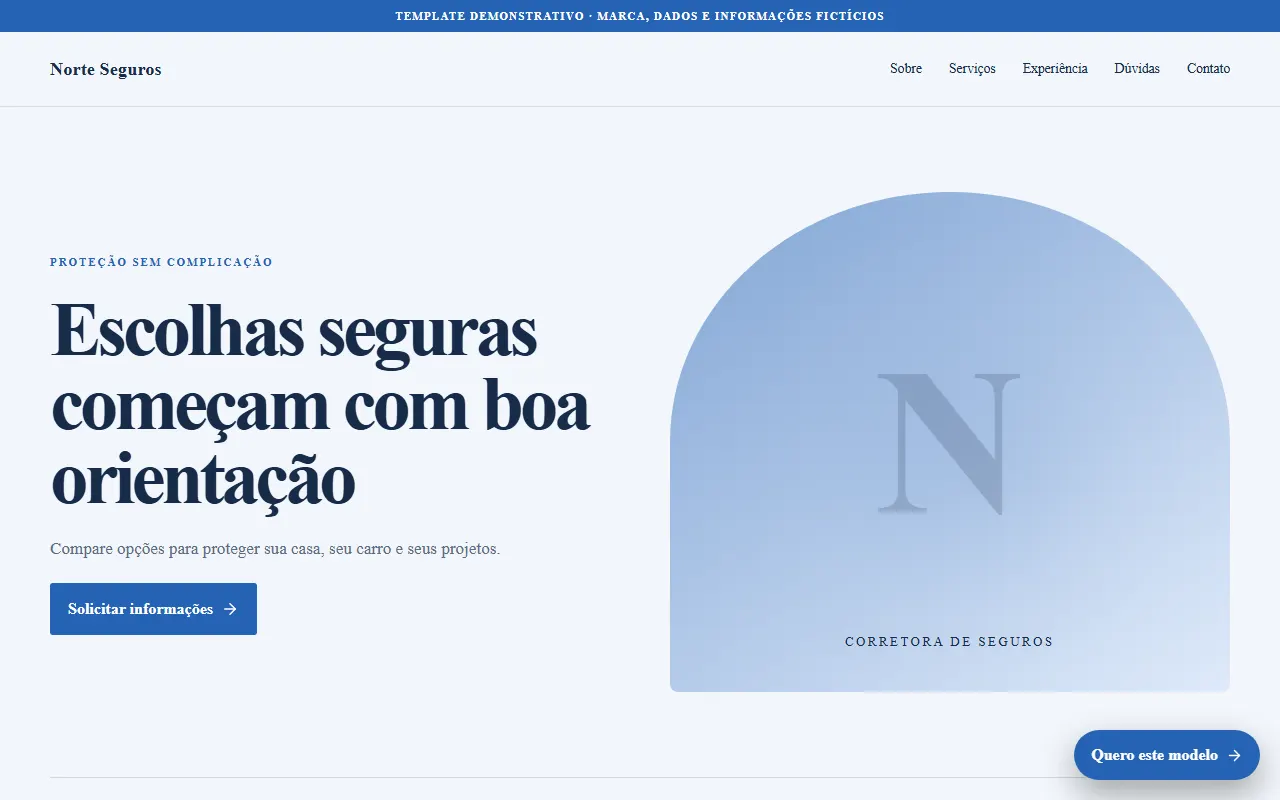
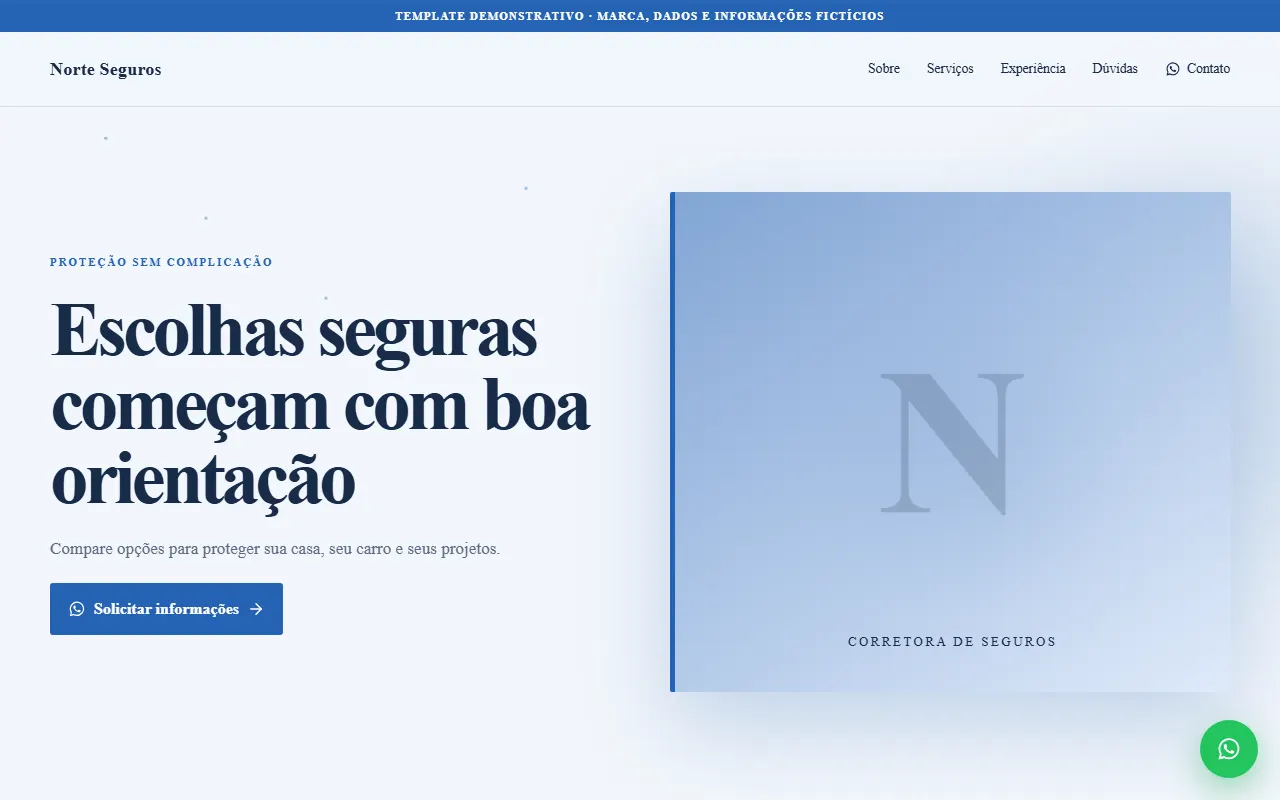
Eleva experiência visual dos templates

diff --git a/src/styles.css b/src/styles.css
@@ -91,3 +91,33 @@ body{background:#050714}.home{background:radial-gradient(circle at 15% 15%,#312e
 @media(max-width:620px){.wordmark b{font-size:.9rem}.hero h1{font-size:clamp(2.65rem,13vw,3.7rem)}.hero-copy>p{font-size:1rem}.hero-art img{border-radius:18px}.browser-frame{left:5%;right:5%;top:2%}.float-block{display:none}.niche-marquee span{font-size:.68rem}.preview{height:250px}.template-meta{align-items:flex-start}.floating-whatsapp{right:14px;bottom:14px;width:52px;height:52px}.floating-whatsapp span{display:none}}
 @media(pointer:coarse){.hero{background:radial-gradient(circle at 82% 15%,#7c3aed52,transparent 30%),linear-gradient(145deg,#050714,#090d21)}}
 @media(prefers-reduced-motion:reduce){.niche-marquee>div,.hero-art,.hero:before,.final-cta:before,.floating-whatsapp{animation:none!important}.reveal{opacity:1;transform:none}}
+
+/* High-impact motion and portfolio layer */
+.scroll-progress{position:fixed;z-index:100;top:0;left:0;right:0;height:3px;background:#ffffff08;pointer-events:none}.scroll-progress span{display:block;width:100%;height:100%;transform-origin:left;background:linear-gradient(90deg,#2563eb,#8b5cf6,#22d3ee,#fb7185);box-shadow:0 0 16px #22d3ee;will-change:transform}
+.motion-item{opacity:0;transform:translateY(36px) scale(.985);transition:opacity .75s cubic-bezier(.2,.7,.2,1),transform .75s cubic-bezier(.2,.7,.2,1)}.motion-item.motion-visible{opacity:1;transform:none}
+[data-glow]{--glow-x:50%;--glow-y:50%;--tilt-x:0deg;--tilt-y:0deg;position:relative;transform:perspective(1000px) rotateX(var(--tilt-x)) rotateY(var(--tilt-y));transition:transform .25s,border-color .25s,box-shadow .25s}
+[data-glow]:before{content:"";position:absolute;z-index:0;inset:0;border-radius:inherit;background:radial-gradient(260px circle at var(--glow-x) var(--glow-y),#67e8f928,transparent 65%);opacity:0;transition:opacity .3s;pointer-events:none}[data-glow]:hover:before{opacity:1}[data-glow]>*{position:relative;z-index:1}
+.scroll-cue{position:absolute;z-index:4;left:50%;bottom:14px;translate:-50% 0;display:flex;flex-direction:column;align-items:center;gap:5px;color:#9298b3;font-size:.62rem;text-transform:uppercase;letter-spacing:.18em}.scroll-cue i{width:22px;height:36px;border:1px solid #ffffff38;border-radius:14px;position:relative}.scroll-cue i:after{content:"";position:absolute;width:3px;height:7px;left:9px;top:7px;border-radius:3px;background:#67e8f9;animation:scroll-dot 1.8s ease-in-out infinite}
+.preview-browser{position:absolute!important;z-index:4!important;left:0;right:0;top:0;height:28px;display:flex;align-items:center;gap:5px;padding:0 10px;background:#090c19e8;border-bottom:1px solid #ffffff16}.preview-browser i{width:6px;height:6px;border-radius:50%;background:#fb7185}.preview-browser i:nth-child(2){background:#fbbf24}.preview-browser i:nth-child(3){background:#34d399}.preview-browser b{margin-left:7px;color:#8f94aa;font-size:.55rem;font-weight:500}.preview img{padding-top:28px}.open-hint{position:absolute!important;z-index:5!important;left:50%;bottom:18px;translate:-50% 12px;display:flex;align-items:center;gap:7px;padding:9px 13px;border-radius:999px;background:#070a19e8;border:1px solid #ffffff27;backdrop-filter:blur(12px);white-space:nowrap;font-size:.7rem;font-weight:700;opacity:0;transition:.3s}.template-card:hover .open-hint{opacity:1;translate:-50% 0}.template-card:hover .template-info h3{color:#c4b5fd}.template-info h3,.card-actions svg{transition:.25s}.card-actions a:hover svg,.button:hover svg{transform:translateX(3px)}.card-actions svg,.button svg{transition:transform .25s}
+.price-card.featured:after{content:"";position:absolute;inset:-2px;border-radius:25px;padding:2px;background:linear-gradient(120deg,#2563eb,#a855f7,#22d3ee,#fb7185,#2563eb);background-size:250% 100%;animation:border-flow 5s linear infinite;mask:linear-gradient(#000 0 0) content-box,linear-gradient(#000 0 0);mask-composite:exclude;pointer-events:none}
+
+/* Distinct animated template worlds */
+.demo{position:relative;isolation:isolate}.demo-atmosphere{position:absolute;z-index:-1;inset:0;overflow:hidden;pointer-events:none}.demo-atmosphere i{position:absolute;width:360px;height:360px;border-radius:50%;filter:blur(95px);opacity:.18;background:var(--accent);animation:atmosphere-float 14s ease-in-out infinite}.demo-atmosphere i:nth-child(1){top:4%;right:-10%}.demo-atmosphere i:nth-child(2){top:38%;left:-13%;animation-delay:-5s}.demo-atmosphere i:nth-child(3){top:72%;right:10%;animation-delay:-9s}.demo-atmosphere span{position:absolute;width:3px;height:3px;border-radius:50%;background:var(--accent);box-shadow:100px 80px var(--accent),220px 160px var(--accent),420px 50px var(--accent),650px 220px var(--accent),850px 100px var(--accent);opacity:.45;animation:star-drift 12s linear infinite}.demo-atmosphere span:first-of-type{top:130px;left:8%}.demo-atmosphere span:last-of-type{top:48%;right:15%;animation-delay:-6s}
+.demo-nav{position:sticky;z-index:30;top:0;background:color-mix(in srgb,var(--bg) 82%,transparent);backdrop-filter:blur(18px)}.demo-links{display:flex;align-items:center;gap:27px}.demo-links a{position:relative}.demo-links a:after{content:"";position:absolute;left:0;right:100%;bottom:-7px;height:1px;background:var(--accent);transition:right .25s}.demo-links a:hover:after{right:0}.demo-links a:last-child{display:flex;align-items:center;gap:6px}.demo-menu-button{display:none;border:0;background:transparent;color:var(--text);padding:8px}
+.demo-visual{box-shadow:0 35px 90px color-mix(in srgb,var(--accent) 24%,transparent);transition:transform .4s}.demo-visual:hover{transform:translateY(-8px) scale(1.01)}.demo-visual>span{animation:glyph-breathe 6s ease-in-out infinite}.demo-service-grid article,.evidence-grid article{overflow:hidden;transition:transform .3s,box-shadow .3s}.demo-service-grid article:hover,.evidence-grid article:hover{transform:translateY(-7px);box-shadow:0 20px 55px color-mix(in srgb,var(--accent) 22%,transparent)}.demo-button{position:relative;overflow:hidden;transition:transform .25s,box-shadow .25s}.demo-button:before{content:"";position:absolute;inset:0;translate:-120% 0;background:linear-gradient(100deg,transparent,#ffffff42,transparent);transition:translate .65s}.demo-button:hover{transform:translateY(-3px);box-shadow:0 14px 35px color-mix(in srgb,var(--accent) 45%,transparent)}.demo-button:hover:before{translate:120% 0}
+.theme-mystic .demo-atmosphere{background:radial-gradient(circle at 50% 5%,#7c3aed25,transparent 30%),repeating-radial-gradient(circle at 20% 10%,transparent 0 80px,#c4b5fd0b 81px 82px)}.theme-mystic .demo-visual{transform:rotate(-2deg)}.theme-mystic .demo-visual:after{content:"✦";position:absolute;font-size:3rem;top:13%;right:14%;color:#e9d5ff;animation:star-pulse 2.5s infinite}
+.theme-beauty .demo-atmosphere{background:radial-gradient(ellipse at 80% 12%,#f9a8d430,transparent 32%)}.theme-beauty .demo-visual{border-radius:55% 45% 12px 42%}.theme-beauty .intro-mark{border-radius:46% 54% 48% 52%}
+.theme-calm .demo-atmosphere,.theme-care .demo-atmosphere{background:linear-gradient(130deg,transparent 25%,#86efac12 50%,transparent 75%)}.theme-calm .demo-service-grid,.theme-care .demo-service-grid{border-radius:30px;overflow:hidden}
+.theme-green .demo-atmosphere{background:radial-gradient(ellipse at 10% 25%,#84cc1630,transparent 26%)}.theme-green .demo-visual{clip-path:polygon(6% 0,100% 0,94% 100%,0 100%)}
+.theme-voice .demo-atmosphere,.theme-music .demo-atmosphere{background:repeating-linear-gradient(90deg,transparent 0 34px,color-mix(in srgb,var(--accent) 8%,transparent) 35px 36px)}.theme-voice .evidence-grid article:after,.theme-music .evidence-grid article:after{content:"▂▅▇▃▆▂▇▅▃";position:absolute;right:12px;bottom:12px;color:var(--accent);letter-spacing:3px;animation:wave-beat 1.2s ease-in-out infinite}.theme-music .demo-hero{transform:skewY(-1deg)}
+.theme-mono .demo-evidence{width:100%;max-width:none;border-radius:0}.theme-mono .evidence-grid article{filter:grayscale(1);transition:filter .4s,transform .4s}.theme-mono .evidence-grid article:hover{filter:none}
+.theme-wedding .demo-visual{border-radius:160px 160px 8px 8px}.theme-wedding .demo-atmosphere{background:radial-gradient(ellipse at 50% 0,#fda4af22,transparent 38%)}
+.theme-home .demo-service-grid article,.theme-solar .demo-service-grid article{clip-path:polygon(0 0,94% 0,100% 12%,100% 100%,0 100%)}.theme-solar .demo-atmosphere{background:radial-gradient(circle at 85% 8%,#fbbf2455,transparent 17%)}
+.theme-insurance .demo-visual,.theme-law .demo-visual{border-radius:2px;border-left:5px solid var(--accent)}.theme-insurance .demo-process li,.theme-law .demo-process li{border-left:1px solid var(--accent);padding-left:20px}
+.theme-realty .demo-visual{clip-path:polygon(8% 0,100% 0,100% 92%,92% 100%,0 100%,0 8%)}.theme-realty .evidence-grid{gap:3px}
+.theme-course .demo-hero:after{content:"01 / 03";position:absolute;right:3%;bottom:4%;font-weight:800;font-size:4rem;color:#ffffff12}
+
+@keyframes scroll-dot{0%{opacity:0;translate:0 0}40%{opacity:1}100%{opacity:0;translate:0 14px}}@keyframes border-flow{to{background-position:250% 0}}@keyframes atmosphere-float{50%{translate:80px 110px;scale:1.25}}@keyframes star-drift{50%{translate:30px 80px}}@keyframes glyph-breathe{50%{transform:scale(1.04);opacity:.28}}@keyframes star-pulse{50%{transform:scale(1.3) rotate(30deg);opacity:.55}}@keyframes wave-beat{50%{transform:scaleY(.55);opacity:.6}}
+@media(max-width:900px){.demo-menu-button{display:block}.demo-links{display:none;position:absolute;top:75px;left:14px;right:14px;flex-direction:column;align-items:stretch;padding:20px;border:1px solid color-mix(in srgb,var(--text) 16%,transparent);background:var(--surface);box-shadow:0 24px 60px #0006}.demo-links.open{display:flex}.demo-links a{padding:8px}.demo-nav>div{display:none}.demo-nav>div.open{display:flex}}
+@media(pointer:coarse){[data-glow]{transform:none!important}[data-glow]:before{display:none}.open-hint{opacity:1;translate:-50% 0}.scroll-cue{display:none}}
+@media(prefers-reduced-motion:reduce){.motion-item{opacity:1;transform:none}.scroll-cue i:after,.price-card.featured:after,.demo-atmosphere i,.demo-atmosphere span,.demo-visual>span,.theme-voice .evidence-grid article:after,.theme-music .evidence-grid article:after{animation:none!important}}

diff --git a/src/templates/TemplatePage.tsx b/src/templates/TemplatePage.tsx
@@ -1,13 +1,16 @@
-import { useEffect } from 'react'
+import { useEffect, useState } from 'react'
 import { useParams, Link } from 'react-router-dom'
-import { ArrowLeft, ArrowRight, Check, ChevronDown, Headphones, Play, ShieldCheck, Sparkles } from 'lucide-react'
+import { ArrowLeft, ArrowRight, Check, ChevronDown, Headphones, Menu, Play, ShieldCheck, Sparkles, X } from 'lucide-react'
 import { templates } from '../data/templates'
 import { templateDetails } from '../data/templateDetails'
 import { whatsappUrl } from '../config/site'
 import WhatsAppIcon from '../components/WhatsAppIcon'
+import FloatingWhatsApp from '../components/FloatingWhatsApp'
+import PageMotion from '../components/PageMotion'
 
 export default function TemplatePage() {
   const { slug } = useParams()
+  const [menuOpen, setMenuOpen] = useState(false)
   const item = templates.find(t => t.slug === slug)
   const detail = slug ? templateDetails[slug] : undefined
 
@@ -19,70 +22,73 @@ export default function TemplatePage() {
 
   const contact = whatsappUrl(`Olá! Gostei do template ${item.name} e gostaria de contratar esse modelo.`)
   return <div className={`demo theme-${item.palette} layout-${item.layout}`}>
+    <PageMotion rootClass=".demo"/>
+    <div className="demo-atmosphere" aria-hidden="true"><i/><i/><i/><span/><span/></div>
     <div className="demo-notice">Template demonstrativo · Marca, dados e informações fictícios</div>
     <nav className="demo-nav">
       <strong>{item.name}</strong>
-      <div><a href="#sobre">Sobre</a><a href="#servicos">Serviços</a><a href="#experiencia">Experiência</a><a href="#duvidas">Dúvidas</a><a href={contact} target="_blank" rel="noreferrer">Contato</a></div>
+      <button className="demo-menu-button" onClick={()=>setMenuOpen(!menuOpen)} aria-label={menuOpen?'Fechar menu':'Abrir menu'}>{menuOpen?<X/>:<Menu/>}</button>
+      <div className={menuOpen?'demo-links open':'demo-links'}><a href="#sobre" onClick={()=>setMenuOpen(false)}>Sobre</a><a href="#servicos" onClick={()=>setMenuOpen(false)}>Serviços</a><a href="#experiencia" onClick={()=>setMenuOpen(false)}>Experiência</a><a href="#duvidas" onClick={()=>setMenuOpen(false)}>Dúvidas</a><a href={contact} target="_blank" rel="noreferrer"><WhatsAppIcon size={16}/> Contato</a></div>
     </nav>
 
     <main>
-      <section className="demo-hero" data-section="hero">
+      <section className="demo-hero" data-section="hero" data-motion>
         <div className="demo-copy">
           <span className="demo-eyebrow">{item.eyebrow}</span>
           <h1>{item.headline}</h1>
           <p>{item.subheadline}</p>
           <a className="demo-button" href={contact} target="_blank" rel="noreferrer"><WhatsAppIcon size={18}/> Solicitar informações <ArrowRight size={18}/></a>
         </div>
-        <div className="demo-visual" aria-label={`Composição visual do template ${item.name}`}>
+        <div className="demo-visual" data-glow aria-label={`Composição visual do template ${item.name}`}>
           <div className="orb"/><span>{item.name.charAt(0)}</span><small>{item.niche}</small>
         </div>
       </section>
 
-      <section className="demo-intro" id="sobre" data-section="apresentacao">
+      <section className="demo-intro" id="sobre" data-section="apresentacao" data-motion>
         <div className="intro-mark"><span>Sobre</span><b>{item.name.charAt(0)}</b></div>
         <div><span className="demo-eyebrow">Apresentação</span><h2>{detail.aboutTitle}</h2><p>{detail.aboutText}</p><p className="demo-proof"><ShieldCheck size={18}/>{item.proof}</p></div>
       </section>
 
-      <section className="demo-services" id="servicos" data-section="servicos">
+      <section className="demo-services" id="servicos" data-section="servicos" data-motion>
         <span className="demo-eyebrow">Serviços e modalidades</span>
         <h2>Soluções apresentadas com clareza</h2>
         <div className="demo-service-grid">{item.services.map((service, index) =>
-          <article key={service}><span>0{index+1}</span><h3>{service}</h3><p>Atendimento demonstrativo organizado para explicar possibilidades, escopo e próximos passos.</p><Check size={18}/></article>
+          <article data-glow key={service}><span>0{index+1}</span><h3>{service}</h3><p>Atendimento demonstrativo organizado para explicar possibilidades, escopo e próximos passos.</p><Check size={18}/></article>
         )}</div>
       </section>
 
-      <section className="demo-benefits" data-section="beneficios">
+      <section className="demo-benefits" data-section="beneficios" data-motion>
         <div><span className="demo-eyebrow">Por que escolher</span><h2>Uma experiência pensada para transmitir segurança</h2></div>
         <div className="benefit-list">{detail.benefits.map((benefit, index) =>
           <article key={benefit}><span>{String(index+1).padStart(2,'0')}</span><h3>{benefit}</h3></article>
         )}</div>
       </section>
 
-      <section className={`demo-evidence evidence-${detail.proofType}`} id="experiencia" data-section="prova">
+      <section className={`demo-evidence evidence-${detail.proofType}`} id="experiencia" data-section="prova" data-motion>
         <div className="evidence-heading"><span className="demo-eyebrow">Confiança e experiência</span><h2>{detail.proofTitle}</h2><p>Conteúdo criado exclusivamente para demonstrar a composição deste modelo.</p></div>
         <div className="evidence-grid">{detail.proofItems.map((proof, index) =>
-          <article key={proof}>
+          <article data-glow key={proof}>
             {detail.proofType === 'audio' ? <button aria-label={`Reproduzir amostra ${proof}`}><Play fill="currentColor"/></button> : <span>{String(index+1).padStart(2,'0')}</span>}
             <div>{detail.proofType === 'audio' && <Headphones size={17}/>}<strong>{proof}</strong><small>{detail.proofType === 'gallery' ? 'Imagem conceitual demonstrativa' : 'Informação demonstrativa'}</small></div>
           </article>
         )}</div>
       </section>
 
-      <section className="demo-process" data-section="processo">
+      <section className="demo-process" data-section="processo" data-motion>
         <div className="process-heading"><span className="demo-eyebrow">Como funciona</span><h2>Do primeiro contato ao atendimento</h2></div>
         <ol>{detail.process.map((step, index) =>
           <li key={step}><span>{index+1}</span><div><h3>{step}</h3><p>Etapa alinhada com transparência para que você saiba o que acontece a seguir.</p></div></li>
         )}</ol>
       </section>
 
-      <section className="demo-faq" id="duvidas" data-section="faq">
+      <section className="demo-faq" id="duvidas" data-section="faq" data-motion>
         <div><span className="demo-eyebrow">Dúvidas frequentes</span><h2>Informação para decidir com tranquilidade</h2><p>As respostas são exemplos e devem ser adaptadas às condições reais do profissional.</p></div>
         <div>{detail.faqs.map(([question, answer], index) =>
           <details key={question} open={index === 0}><summary>{question}<ChevronDown/></summary><p>{answer}</p></details>
         )}</div>
       </section>
 
-      <section className="demo-cta" data-section="cta">
+      <section className="demo-cta" data-section="cta" data-motion>
         <Sparkles className="cta-spark"/>
         <span>Pronto para adaptar este modelo à sua marca?</span>
         <h2>Vamos criar uma presença completa que tenha a sua cara.</h2>
@@ -92,6 +98,6 @@ export default function TemplatePage() {
     </main>
 
     <footer className="demo-footer"><strong>{item.name}</strong><span>Template demonstrativo · Conteúdo e contatos fictícios.</span><Link to="/"><ArrowLeft size={16}/> Voltar à JVR</Link></footer>
-    <a className="fixed-demo-cta" href={contact} target="_blank" rel="noreferrer"><WhatsAppIcon size={18}/> Quero este modelo <ArrowRight size={17}/></a>
+    <FloatingWhatsApp message={`Olá! Gostei do template ${item.name} e gostaria de contratar esse modelo.`} label="Quero este modelo"/>
   </div>
 }

diff --git a/src/pages/Home.tsx b/src/pages/Home.tsx
@@ -6,6 +6,7 @@ import Footer from '../components/Footer'
 import QuoteForm from '../components/QuoteForm'
 import FloatingWhatsApp from '../components/FloatingWhatsApp'
 import WhatsAppIcon from '../components/WhatsAppIcon'
+import PageMotion from '../components/PageMotion'
 import { SITE, whatsappUrl } from '../config/site'
 import { templates, categories } from '../data/templates'
 import { buildPlans, carePlans, extras } from '../data/pricing'
@@ -46,6 +47,7 @@ export default function Home() {
     event.currentTarget.style.setProperty('--mouse-y', `${event.clientY - rect.top}px`)
   }
   return <div className="home">
+    <PageMotion rootClass=".home"/>
     <Header/>
     <main ref={mainRef}>
       <section className="hero" onPointerMove={moveGlow}>
@@ -55,6 +57,7 @@ export default function Home() {
           <div className="hero-art"><div className="browser-frame"><span/><span/><span/></div><img src={`${base}assets/hero-showcase.png`} alt="Mockups de landing pages em celulares, tablets e computadores" /><div className="float-card"><span>15 modelos</span><strong>prontos para personalizar</strong></div><div className="float-block block-one">Conversão</div><div className="float-block block-two">Mobile first</div></div>
         </div>
         <div className="feature-strip"><span><WhatsAppIcon/> WhatsApp</span><span><Search/> SEO básico</span><span><ShieldCheck/> Suporte disponível</span><span><Globe2/> Todo o Brasil</span></div>
+        <a className="scroll-cue" href="#modelos" aria-label="Continuar explorando"><i/><span>Explore</span></a>
       </section>
       <div className="niche-marquee" aria-label="Nichos atendidos"><div>{[...templates,...templates].map((t,i)=><span key={`${t.slug}-${i}`}>{t.niche}<i>✦</i></span>)}</div></div>
 
@@ -62,7 +65,7 @@ export default function Home() {
 
       <section className="templates-section" id="modelos"><div className="container section-heading"><span className="eyebrow">Escolha seu ponto de partida</span><h2>Modelos com personalidade.<br/>Personalizados para a sua marca.</h2><p>Cada demonstração é uma página funcional completa. Abra, explore e imagine seu conteúdo ali.</p></div>
         <div className="filters" aria-label="Filtrar modelos">{categories.map(c=><button key={c} className={filter===c?'active':''} onClick={()=>setFilter(c)}>{c}</button>)}</div>
-        <div className="container template-grid">{visible.map((t,index)=><article className={`template-card card-${t.palette} ${index===0?'recommended':''}`} key={t.slug}><Link className="preview" to={`/templates/${t.slug}`} aria-label={`Visualizar template ${t.name}`}><img src={`${base}previews/${t.slug}.webp`} alt={`Prévia real do template ${t.name}`} loading="lazy" />{index===0&&<b className="recommended-badge">Recomendado</b>}</Link><div className="template-info"><div className="template-meta"><span className="tag">{t.category}</span><strong>A partir de R$ 500</strong></div><h3>{t.name}</h3><p>{t.niche} · {t.style}</p><div className="template-features"><span>Responsivo</span><span>WhatsApp</span><span>SEO básico</span></div><div className="card-actions"><Link to={`/templates/${t.slug}`}>Visualizar template</Link><a href={whatsappUrl(`Olá! Gostei do template ${t.name} e gostaria de contratar esse modelo.`)} target="_blank" rel="noreferrer" aria-label={`Solicitar orçamento do template ${t.name}`}><WhatsAppIcon size={15}/> Orçamento</a></div></div></article>)}</div>
+        <div className="container template-grid">{visible.map((t,index)=><article data-glow data-motion className={`template-card card-${t.palette} ${index===0?'recommended':''}`} key={t.slug}><Link className="preview" to={`/templates/${t.slug}`} aria-label={`Visualizar template ${t.name}`}><span className="preview-browser"><i/><i/><i/><b>jvr.page/{t.slug}</b></span><img src={`${base}previews/${t.slug}.webp`} alt={`Prévia real do template ${t.name}`} loading="lazy" />{index===0&&<b className="recommended-badge">Recomendado</b>}<span className="open-hint">Abrir projeto <ArrowRight size={15}/></span></Link><div className="template-info"><div className="template-meta"><span className="tag">{t.category}</span><strong>A partir de R$ 500</strong></div><h3>{t.name}</h3><p>{t.niche} · {t.style}</p><div className="template-features"><span>Responsivo</span><span>WhatsApp</span><span>SEO básico</span></div><div className="card-actions"><Link to={`/templates/${t.slug}`}>Ver demonstração</Link><a href={whatsappUrl(`Olá! Gostei do template ${t.name} e gostaria de contratar esse modelo.`)} target="_blank" rel="noreferrer" aria-label={`Solicitar orçamento do template ${t.name}`}><WhatsAppIcon size={15}/> Orçamento</a></div></div></article>)}</div>
       </section>
 
       <section className="light-section" id="planos"><div className="container section-heading dark-heading"><span className="eyebrow dark">Planos e valores</span><h2>Simples de entender.<br/>Fácil de começar.</h2><p>*O prazo começa após o recebimento de todo o material solicitado.</p></div><div className="container pricing-grid">{buildPlans.map(p=><article className={p.featured?'price-card featured':'price-card'} key={p.name}>{p.featured&&<span className="popular">Mais escolhido</span>}<h3>{p.name}</h3><strong className="price">{p.price}</strong><p>{p.description}</p><ul>{p.items.map(x=><li key={x}><Check/>{x}</li>)}</ul><a className="button" href={whatsappUrl(`Olá! Gostaria de contratar o plano ${p.name}.`)} target="_blank" rel="noreferrer"><WhatsAppIcon size={18}/> Escolher este plano</a></article>)}</div><div className="container scope-note"><ShieldCheck/><p><strong>Escopo objetivo:</strong> sistemas, lojas virtuais, login, painéis, automações e integrações avançadas precisam de orçamento separado.</p></div></section>

diff --git a/src/components/PageMotion.tsx b/src/components/PageMotion.tsx
@@ -1,0 +1,37 @@
+import { useEffect } from 'react'
+
+export default function PageMotion({ rootClass }: { rootClass: string }) {
+  useEffect(() => {
+    const root = document.querySelector(rootClass)
+    if (!root) return
+    const reduced = matchMedia('(prefers-reduced-motion: reduce)').matches
+    const reveals = root.querySelectorAll('[data-motion]')
+    if (!reduced) {
+      const observer = new IntersectionObserver(entries => entries.forEach(entry => {
+        if (entry.isIntersecting) { entry.target.classList.add('motion-visible'); observer.unobserve(entry.target) }
+      }), { threshold: .08 })
+      reveals.forEach(item => { item.classList.add('motion-item'); observer.observe(item) })
+      const glowCards = root.querySelectorAll<HTMLElement>('[data-glow]')
+      const move = (event: Event) => {
+        const pointer = event as PointerEvent
+        const card = event.currentTarget as HTMLElement
+        const rect = card.getBoundingClientRect()
+        card.style.setProperty('--glow-x', `${pointer.clientX - rect.left}px`)
+        card.style.setProperty('--glow-y', `${pointer.clientY - rect.top}px`)
+        card.style.setProperty('--tilt-x', `${((pointer.clientY - rect.top) / rect.height - .5) * -2}deg`)
+        card.style.setProperty('--tilt-y', `${((pointer.clientX - rect.left) / rect.width - .5) * 2}deg`)
+      }
+      const leave = (event: Event) => {
+        const card = event.currentTarget as HTMLElement
+        card.style.setProperty('--tilt-x', '0deg'); card.style.setProperty('--tilt-y', '0deg')
+      }
+      glowCards.forEach(card => { card.addEventListener('pointermove', move); card.addEventListener('pointerleave', leave) })
+      return () => {
+        observer.disconnect()
+        glowCards.forEach(card => { card.removeEventListener('pointermove', move); card.removeEventListener('pointerleave', leave) })
+      }
+    }
+    reveals.forEach(item => item.classList.add('motion-visible'))
+  }, [rootClass])
+  return null
+}

diff --git a/src/components/FloatingWhatsApp.tsx b/src/components/FloatingWhatsApp.tsx
@@ -1,8 +1,8 @@
 import { whatsappUrl } from '../config/site'
 import WhatsAppIcon from './WhatsAppIcon'
 
-export default function FloatingWhatsApp() {
-  return <a className="floating-whatsapp" href={whatsappUrl()} target="_blank" rel="noreferrer" aria-label="Solicitar orçamento pelo WhatsApp">
-    <WhatsAppIcon size={26}/><span>Solicitar orçamento</span>
+export default function FloatingWhatsApp({ message, label = 'Solicitar orçamento' }: { message?: string; label?: string }) {
+  return <a className="floating-whatsapp" href={whatsappUrl(message)} target="_blank" rel="noreferrer" aria-label={`${label} pelo WhatsApp`}>
+    <WhatsAppIcon size={26}/><span>{label}</span>
   </a>
 }

diff --git a/src/components/ScrollProgress.tsx b/src/components/ScrollProgress.tsx
@@ -1,0 +1,14 @@
+import { useEffect, useState } from 'react'
+
+export default function ScrollProgress() {
+  const [progress, setProgress] = useState(0)
+  useEffect(() => {
+    const update = () => {
+      const max = document.documentElement.scrollHeight - innerHeight
+      setProgress(max > 0 ? Math.min(1, scrollY / max) : 0)
+    }
+    update(); addEventListener('scroll', update, { passive: true }); addEventListener('resize', update)
+    return () => { removeEventListener('scroll', update); removeEventListener('resize', update) }
+  }, [])
+  return <div className="scroll-progress" aria-hidden="true"><span style={{ transform: `scaleX(${progress})` }}/></div>
+}

diff --git a/src/App.tsx b/src/App.tsx
@@ -3,6 +3,7 @@ import { useEffect } from 'react'
 import Home from './pages/Home'
 import Legal from './pages/Legal'
 import TemplatePage from './templates/TemplatePage'
+import ScrollProgress from './components/ScrollProgress'
 
 function ScrollAndTitle() {
   const { pathname } = useLocation()
@@ -16,6 +17,7 @@ function ScrollAndTitle() {
 export default function App() {
   return <>
     <ScrollAndTitle />
+    <ScrollProgress />
     <Routes>
       <Route path="/" element={<Home />} />
       <Route path="/templates/:slug" element={<TemplatePage />} />
